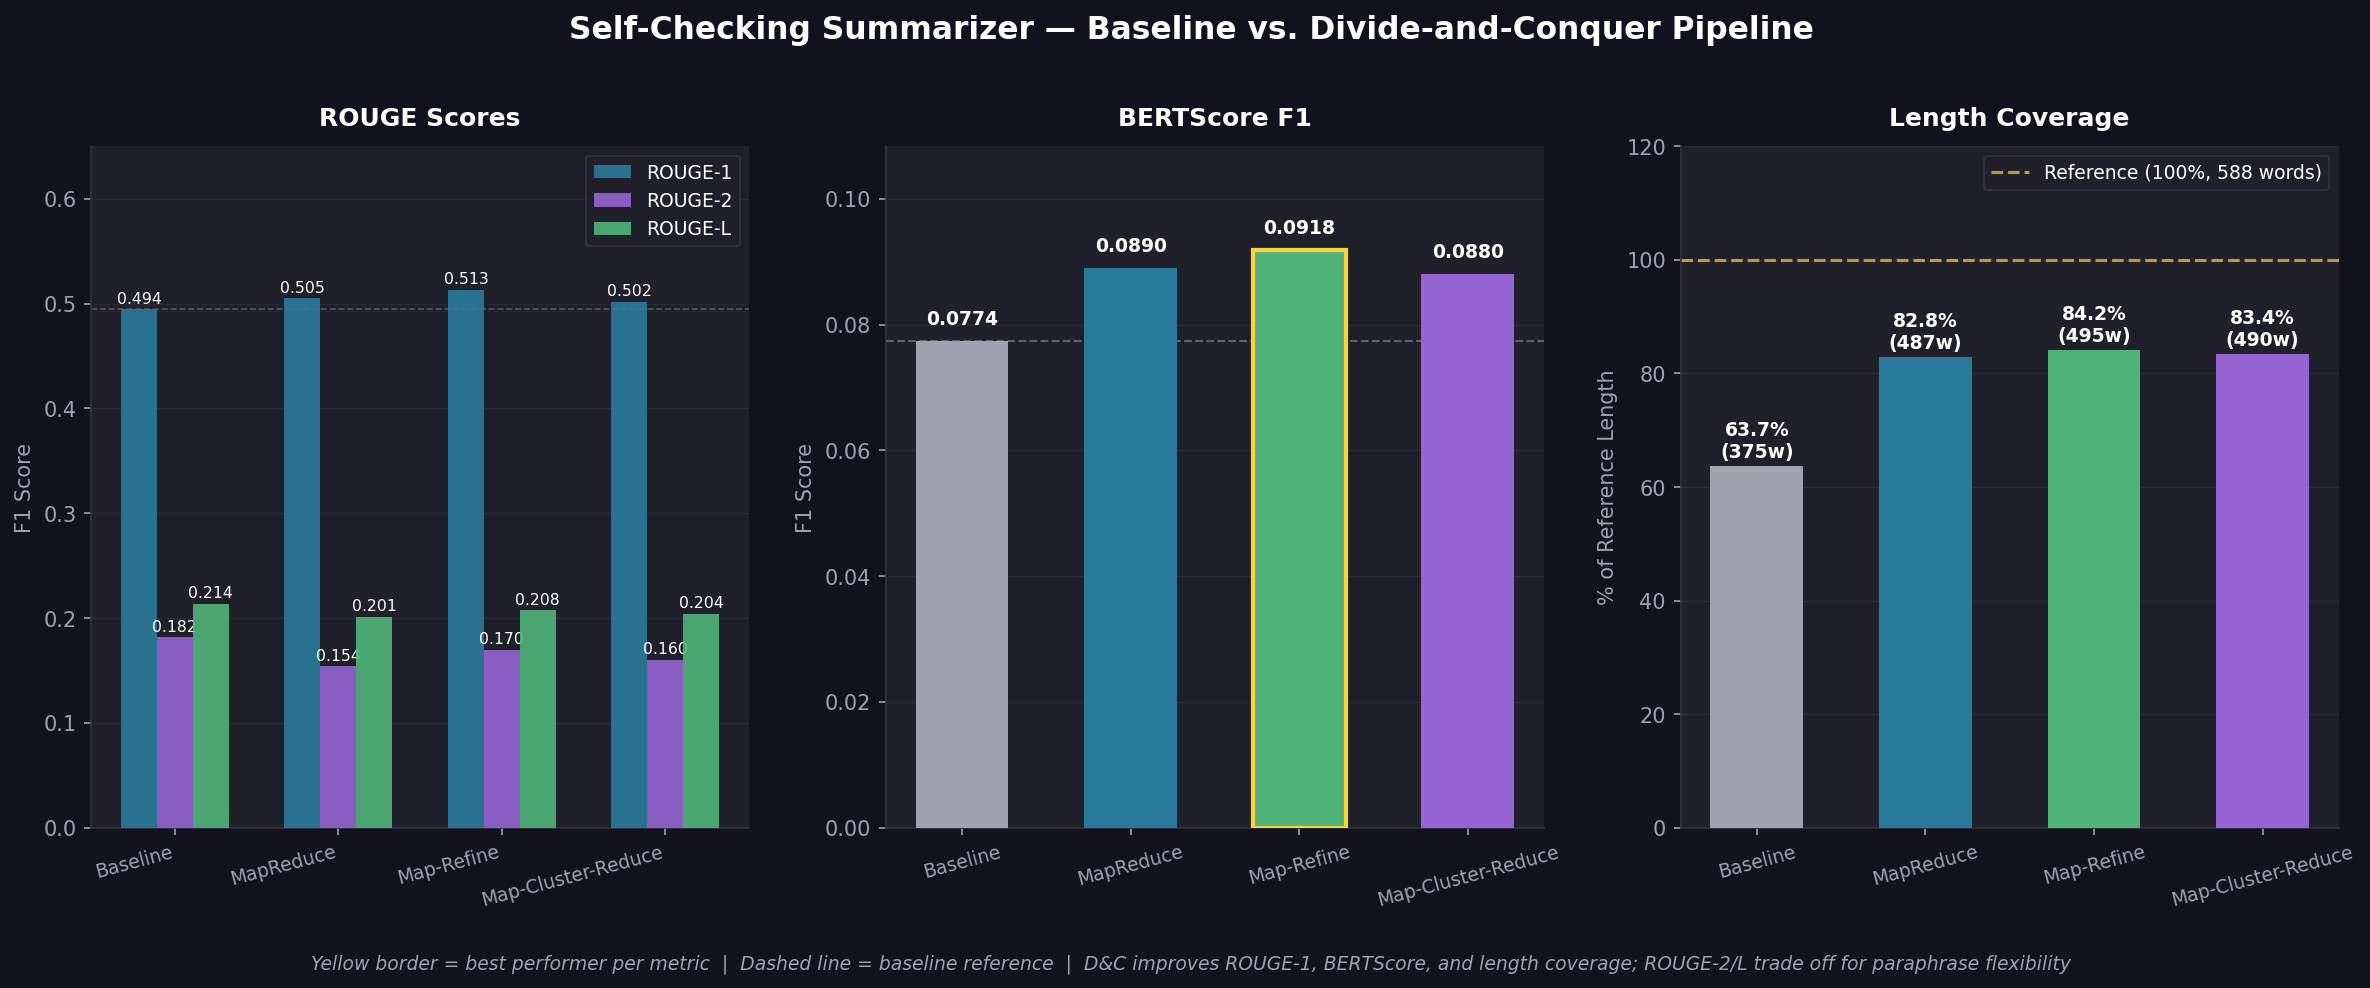
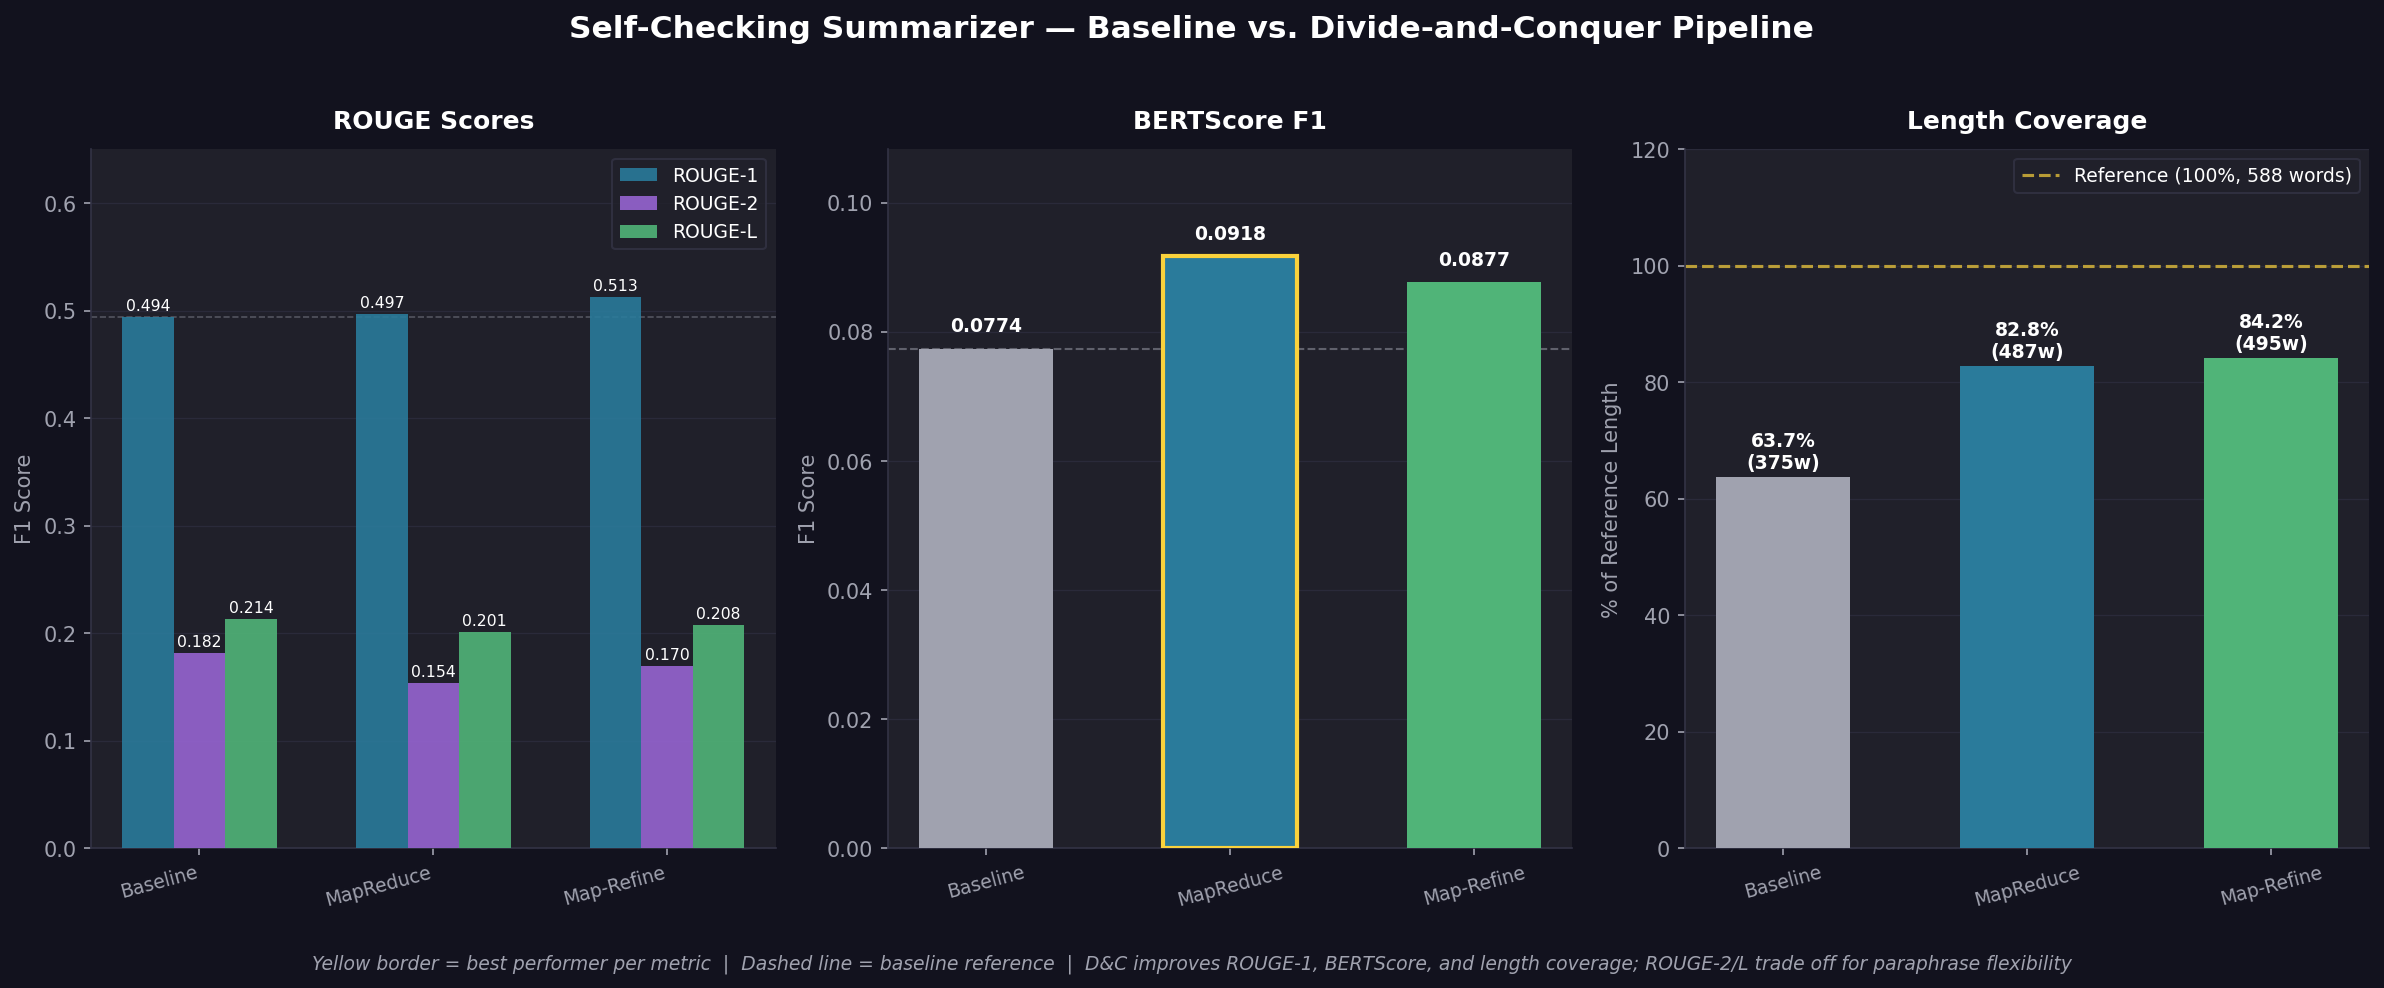
Add evaluation visualizer script to generate comparison plots

diff --git a/evaluation_visualizer.py b/evaluation_visualizer.py
@@ -12,8 +12,10 @@ Output: evaluation_plots.png
 
 import json
 import os
+import glob
+import re
+import csv
 import matplotlib.pyplot as plt
-import matplotlib.patches as mpatches
 import numpy as np
 
 # ── Load results ──────────────────────────────────────────────────────────────
@@ -27,30 +29,92 @@ def load_metrics(filename):
 
 baseline = load_metrics("baseline_qwen25_7b_a100_100samples_faithful_metrics_summary.json")
 
-# D&C results — update these filenames once pipeline results are saved
-# If not yet available, uses placeholder values from README
+def _parse_range_from_name(path):
+    name = os.path.basename(path)
+    m = re.search(r"_(\d+)to(\d+)_", name)
+    if not m:
+        return None
+    return int(m.group(1)), int(m.group(2))
+
+
+def _select_non_overlapping_ranges(ranges):
+    """
+    Prefer granular slice files and skip broad overlapping aggregate ranges
+    (e.g., keep 0-50, 50-100, ... and skip 0-400).
+    """
+    ordered = sorted(ranges, key=lambda x: (x[1] - x[0], x[0], x[1]))
+    selected = []
+    for r in ordered:
+        overlaps = any(not (r[1] <= s[0] or r[0] >= s[1]) for s in selected)
+        if not overlaps:
+            selected.append(r)
+    return sorted(selected)
+
+
+def load_dc_method_from_files(prefix):
+    """
+    Build method metrics from real experiment files in results/.
+    - ROUGE and lengths: aggregate per-sample CSVs, dedup by sample_id.
+    - BERTScore: weighted average from matching slice metrics_summary JSONs.
+    """
+    per_sample_glob = os.path.join(RESULTS_DIR, f"{prefix}_*to*_per_sample_metrics.csv")
+    per_sample_files = glob.glob(per_sample_glob)
+    if not per_sample_files:
+        raise FileNotFoundError(f"No per-sample files found for {prefix}")
+
+    ranges = [r for r in (_parse_range_from_name(p) for p in per_sample_files) if r is not None]
+    selected_ranges = _select_non_overlapping_ranges(ranges)
+    selected_files = [
+        os.path.join(RESULTS_DIR, f"{prefix}_{start}to{end}_per_sample_metrics.csv")
+        for start, end in selected_ranges
+        if os.path.exists(os.path.join(RESULTS_DIR, f"{prefix}_{start}to{end}_per_sample_metrics.csv"))
+    ]
+
+    # Deduplicate sample rows across files
+    sample_rows = {}
+    for file_path in selected_files:
+        with open(file_path, newline="", encoding="utf-8") as f:
+            reader = csv.DictReader(f)
+            for row in reader:
+                sample_rows[int(row["sample_id"])] = row
+
+    if not sample_rows:
+        raise RuntimeError(f"No sample rows loaded for {prefix}")
+
+    rows = list(sample_rows.values())
+    rouge1 = np.array([float(r["rouge1_f1"]) for r in rows])
+    rouge2 = np.array([float(r["rouge2_f1"]) for r in rows])
+    rougeL = np.array([float(r["rougeL_f1"]) for r in rows])
+    gen_len = np.array([float(r["gen_length"]) for r in rows])
+
+    # Weighted mean BERTScore from selected summary files
+    bert_num = 0.0
+    bert_den = 0.0
+    for start, end in selected_ranges:
+        summary_path = os.path.join(RESULTS_DIR, f"{prefix}_{start}to{end}_metrics_summary.json")
+        if not os.path.exists(summary_path):
+            continue
+        summary = load_metrics(os.path.basename(summary_path))
+        n = int(summary.get("num_samples", 0))
+        bert = float(summary.get("bertscore_f1_mean", 0.0))
+        bert_num += bert * n
+        bert_den += n
+
+    if bert_den == 0:
+        raise RuntimeError(f"No metrics_summary files found for {prefix}")
+
+    return {
+        "rouge1_f1_mean": float(np.mean(rouge1)),
+        "rouge2_f1_mean": float(np.mean(rouge2)),
+        "rougeL_f1_mean": float(np.mean(rougeL)),
+        "bertscore_f1_mean": float(bert_num / bert_den),
+        "gen_length_mean": float(np.mean(gen_len)),
+    }
+
+
 dc_results = {
-    "MapReduce": {
-        "rouge1_f1_mean": 0.505,
-        "rouge2_f1_mean": 0.154,
-        "rougeL_f1_mean": 0.201,
-        "bertscore_f1_mean": 0.089,
-        "gen_length_mean": 487,
-    },
-    "Map-Refine": {
-        "rouge1_f1_mean": 0.5129,
-        "rouge2_f1_mean": 0.1696,
-        "rougeL_f1_mean": 0.2076,
-        "bertscore_f1_mean": 0.0918,
-        "gen_length_mean": 495,
-    },
-    "Map-Cluster-Reduce": {
-        "rouge1_f1_mean": 0.502,
-        "rouge2_f1_mean": 0.160,
-        "rougeL_f1_mean": 0.204,
-        "bertscore_f1_mean": 0.088,
-        "gen_length_mean": 490,
-    },
+    "MapReduce": load_dc_method_from_files("mapreduce_qwen25_7b_hpc"),
+    "Map-Refine": load_dc_method_from_files("refine_qwen25_7b_hpc"),
 }
 
 # ── Plot setup ────────────────────────────────────────────────────────────────
@@ -85,7 +149,7 @@ fig.suptitle(
 )
 
 methods   = ["Baseline"] + list(dc_results.keys())
-colors    = [GRAY, ACCENT, GREEN, PURPLE]
+colors    = [GRAY, ACCENT, GREEN]
 ref_len   = baseline["ref_length_mean"]
 
 # ── Helper: bar chart ─────────────────────────────────────────────────────────
